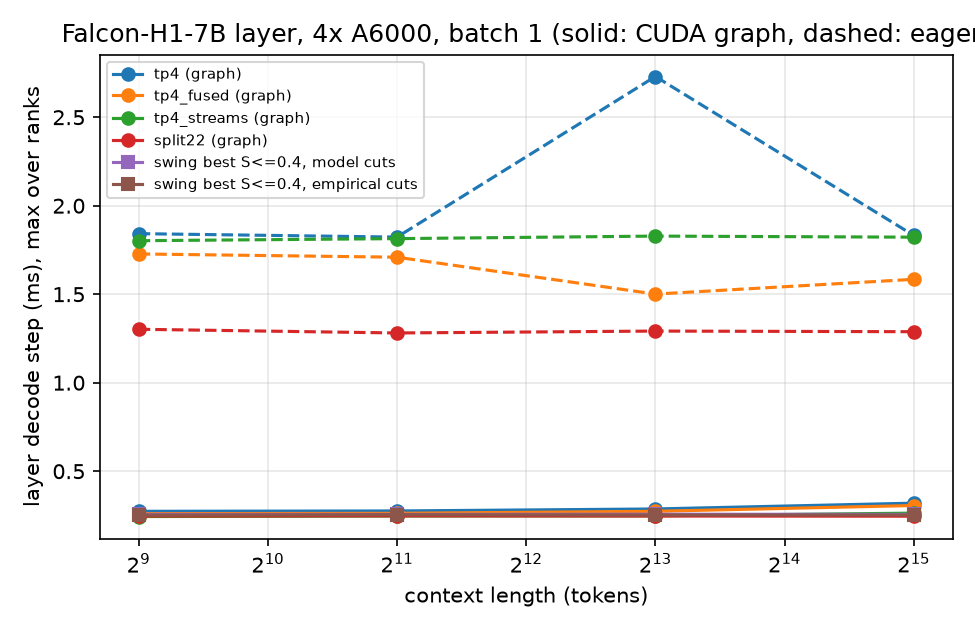
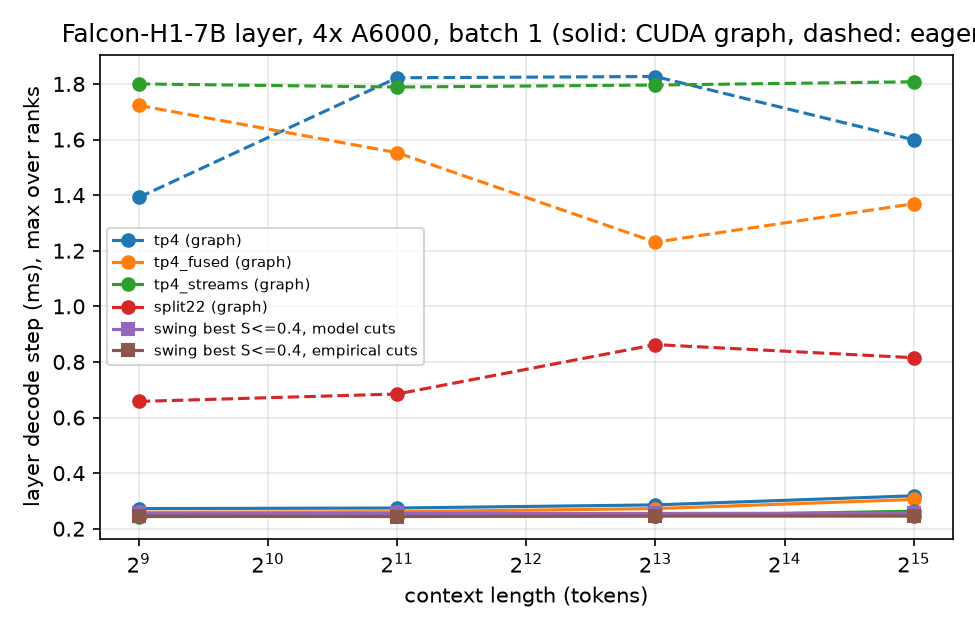
analysis: min over repeats with CoV flags (shared-box contamination)

diff --git a/analysis/make_all.py b/analysis/make_all.py
@@ -123,10 +123,10 @@ def plot_pred_vs_meas(df: pd.DataFrame, figs: Path) -> None:
 def summarize(step_g: pd.DataFrame, df: pd.DataFrame, out: Path) -> None:
     lines = ["# Stage-1 summary", ""]
     tp4 = step_g[step_g["label"] == "tp4"].set_index(["batch", "ctx"])["step_ms"]
-    lines.append("## Speedup of each mode over tp4 (CUDA-graph variant, median over repeats)")
+    lines.append("## Speedup of each mode over tp4 (CUDA-graph variant, min over repeats; cells with CoV > 5% flagged *)")
     lines.append("")
-    lines.append("| batch | ctx | tp4 ms | tp4_fused | tp4_streams | split22 | swing best (S, cuts) | swing speedup |")
-    lines.append("|---|---|---|---|---|---|---|---|")
+    lines.append("| batch | ctx | tp4 ms | tp4_fused | tp4_streams | split22 | swing best (S, cuts) | swing speedup | max CoV |")
+    lines.append("|---|---|---|---|---|---|---|---|---|")
     bs = best_swing(step_g, None)
     for (B, c), t in tp4.sort_index().items():
         def sp(label: str) -> str:
@@ -136,7 +136,9 @@ def summarize(step_g: pd.DataFrame, df: pd.DataFrame, out: Path) -> None:
         b = bs[(bs["batch"] == B) & (bs["ctx"] == c)]
         bstr = f"S={b.iloc[0]['S']:.1f}, {b.iloc[0]['cuts_src']}" if len(b) else "-"
         bsp = f"{t / b.iloc[0]['step_ms']:.2f}x" if len(b) else "-"
-        lines.append(f"| {B} | {c} | {t:.3f} | {sp('tp4_fused')} | {sp('tp4_streams')} | {sp('split22')} | {bstr} | {bsp} |")
+        cv = step_g[(step_g["batch"] == B) & (step_g["ctx"] == c)]["cov"].max()
+        flag = "*" if cv > 0.05 else ""
+        lines.append(f"| {B} | {c} | {t:.3f}{flag} | {sp('tp4_fused')} | {sp('tp4_streams')} | {sp('split22')} | {bstr} | {bsp} | {cv:.2f} |")
     corr = Path(out.parent / "raw" / "correctness.csv")
     if corr.exists():
         c = pd.read_csv(corr)

diff --git a/analysis/load.py b/analysis/load.py
@@ -19,12 +19,17 @@ def load_runs(raw_dir: str | Path) -> pd.DataFrame:
     return df
 
 
-def step_table(df: pd.DataFrame, variant: str) -> pd.DataFrame:
-    """Median over repeats of the max-over-ranks step time per (label, cuts_src, batch, ctx)."""
+def step_table(df: pd.DataFrame, variant: str, agg: str = "min") -> pd.DataFrame:
+    """Aggregate over repeats of the max-over-ranks step time per (label, cuts_src, batch, ctx).
+
+    Default is the minimum over repeats: the box is shared and foreign GPU load inflates some repeats, so the
+    least-contaminated repeat is the best estimate of the undisturbed step. `cov` flags cells where repeats
+    disagree (contamination or thermal drift)."""
     s = df[(df["op"] == "step_max") & (df["variant"] == variant)]
     g = s.groupby(["label", "mode", "S", "cuts_src", "batch", "ctx"], dropna=False)["median_ms"]
-    out = g.median().reset_index().rename(columns={"median_ms": "step_ms"})
+    out = (g.min() if agg == "min" else g.median()).reset_index().rename(columns={"median_ms": "step_ms"})
     out["cov"] = (g.std() / g.mean()).reset_index(drop=True)
+    out["n_rep"] = g.count().reset_index(drop=True)
     return out
 
 

diff --git a/results/full/summary/summary.md b/results/full/summary/summary.md
@@ -1,25 +1,25 @@
 # Stage-1 summary
 
-## Speedup of each mode over tp4 (CUDA-graph variant, median over repeats)
+## Speedup of each mode over tp4 (CUDA-graph variant, min over repeats; cells with CoV > 5% flagged *)
 
-| batch | ctx | tp4 ms | tp4_fused | tp4_streams | split22 | swing best (S, cuts) | swing speedup |
-|---|---|---|---|---|---|---|---|
-| 1 | 512 | 0.273 | 1.05x | 1.12x | 1.11x | S=0.1, neutral | 1.11x |
-| 1 | 2048 | 0.275 | 1.05x | 1.12x | 1.11x | S=0.1, neutral | 1.12x |
-| 1 | 8192 | 0.287 | 1.05x | 1.16x | 1.16x | S=0.2, neutral | 1.16x |
-| 1 | 32768 | 0.319 | 1.04x | 1.21x | 1.30x | S=0.1, neutral | 1.29x |
-| 4 | 512 | 0.301 | 1.06x | 1.15x | 1.13x | S=0.3, neutral | 1.14x |
-| 4 | 2048 | 0.307 | 1.06x | 1.15x | 1.16x | S=0.2, neutral | 1.16x |
-| 4 | 8192 | 0.331 | 1.05x | 1.17x | 1.24x | S=0.1, neutral | 1.24x |
-| 4 | 32768 | 0.416 | 1.03x | 1.18x | 1.30x | S=0.2, neutral | 1.30x |
-| 16 | 512 | 0.366 | 1.09x | 1.16x | 1.11x | S=0.1, neutral | 1.11x |
-| 16 | 2048 | 0.390 | 1.09x | 1.17x | 1.19x | S=0.1, neutral | 1.19x |
-| 16 | 8192 | 0.471 | 1.07x | 1.17x | 1.38x | S=0.1, neutral | 1.38x |
-| 16 | 32768 | 0.792 | 1.04x | 1.12x | 1.19x | S=0.4, neutral | 1.20x |
-| 64 | 512 | 0.633 | 1.12x | 1.18x | 1.08x | S=0.1, neutral | 1.08x |
-| 64 | 2048 | 0.721 | 1.11x | 1.18x | 1.23x | S=0.1, neutral | 1.23x |
-| 64 | 8192 | 1.492 | 1.54x | 1.62x | 1.90x | S=0.1, neutral | 1.90x |
-| 64 | 32768 | 4.750 | 2.13x | 2.18x | 2.30x | S=0.1, neutral | 2.31x |
+| batch | ctx | tp4 ms | tp4_fused | tp4_streams | split22 | swing best (S, cuts) | swing speedup | max CoV |
+|---|---|---|---|---|---|---|---|---|
+| 1 | 512 | 0.272* | 1.05x | 1.12x | 1.11x | S=0.1, neutral | 1.12x | 0.10 |
+| 1 | 2048 | 0.274* | 1.05x | 1.12x | 1.12x | S=0.2, grid | 1.13x | 0.10 |
+| 1 | 8192 | 0.286* | 1.05x | 1.16x | 1.16x | S=0.1, neutral | 1.17x | 0.10 |
+| 1 | 32768 | 0.318* | 1.04x | 1.21x | 1.30x | S=0.1, neutral | 1.30x | 0.09 |
+| 4 | 512 | 0.299* | 1.06x | 1.15x | 1.13x | S=0.3, neutral | 1.13x | 0.09 |
+| 4 | 2048 | 0.305* | 1.06x | 1.14x | 1.16x | S=0.2, grid | 1.16x | 0.09 |
+| 4 | 8192 | 0.329* | 1.05x | 1.17x | 1.24x | S=0.3, neutral | 1.24x | 0.09 |
+| 4 | 32768 | 0.414* | 1.04x | 1.18x | 1.29x | S=0.2, neutral | 1.29x | 0.08 |
+| 16 | 512 | 0.366* | 1.09x | 1.16x | 1.11x | S=0.1, neutral | 1.11x | 0.10 |
+| 16 | 2048 | 0.388* | 1.09x | 1.17x | 1.18x | S=0.1, neutral | 1.18x | 0.10 |
+| 16 | 8192 | 0.469* | 1.07x | 1.17x | 1.38x | S=0.1, neutral | 1.38x | 0.10 |
+| 16 | 32768 | 0.790* | 1.04x | 1.12x | 1.19x | S=0.1, neutral | 1.20x | 0.05 |
+| 64 | 512 | 0.632 | 1.13x | 1.19x | 1.07x | S=0.1, grid | 1.08x | 0.04 |
+| 64 | 2048 | 0.715 | 1.12x | 1.18x | 1.22x | S=0.1, grid | 1.23x | 0.04 |
+| 64 | 8192 | 1.028* | 1.08x | 1.12x | 1.31x | S=0.1, grid | 1.32x | 0.31 |
+| 64 | 32768 | 2.309* | 1.03x | 1.06x | 1.12x | S=0.4, grid | 1.12x | 0.49 |
 
 ## Go / no-go
 
